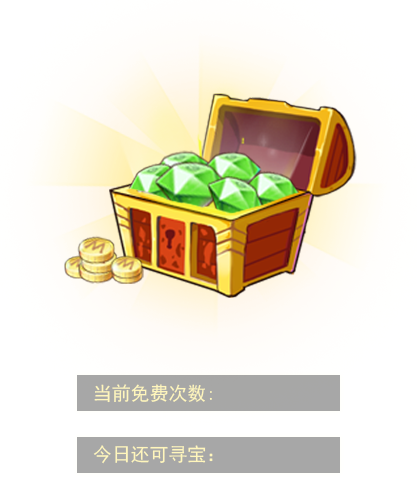
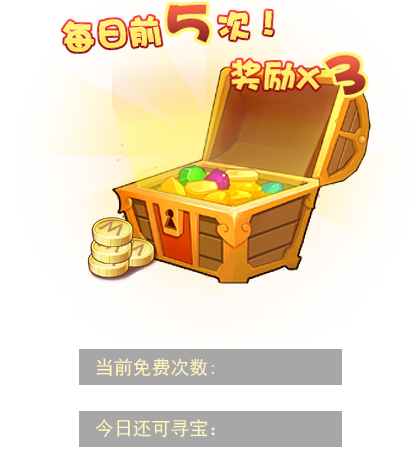
修改寻宝界面

diff --git a/client/cocos2d-x-2.2.1/projects/Magpie/Resources/src/model/gameFit.js b/client/cocos2d-x-2.2.1/projects/Magpie/Resources/src/model/gameFit.js
@@ -1163,12 +1163,12 @@ var fit4Iphone4 = {
             "headLabelPoint": cc.p(360, 850),
             "goldIconPoint": cc.p(570, 850),
             "goldLabelPoint": cc.p(600, 850),
-            "treasureHuntBgPoint": cc.p(360, 500),
-            "treasureHuntItemPoint": cc.p(360, 452),
+            "treasureHuntBgPoint": cc.p(360, 480),
+            "treasureHuntItemPoint": cc.p(360, 422),
             "treasureHuntIcon1Point": cc.p(355, 457),
-            "treasureHuntIcon2Point": cc.p(355, 457),
-            "freeCountLabelPoint": cc.p(420, 342),
-            "countLabelPoint": cc.p(420, 282)
+            "treasureHuntIcon2Point": cc.p(355, 427),
+            "freeCountLabelPoint": cc.p(420, 337),
+            "countLabelPoint": cc.p(420, 277)
         },
         "goPaymentLayer": {
             "bgSpritePoint": cc.p(360, 492),
@@ -2388,12 +2388,12 @@ var fit4Iphone5 = {
             "headLabelPoint": cc.p(320, 1026),
             "goldIconPoint": cc.p(530, 1026),
             "goldLabelPoint": cc.p(560, 1026),
-            "treasureHuntBgPoint": cc.p(320, 588),
-            "treasureHuntItemPoint": cc.p(320, 540),
+            "treasureHuntBgPoint": cc.p(320, 548),
+            "treasureHuntItemPoint": cc.p(320, 490),
             "treasureHuntIcon1Point": cc.p(315, 545),
-            "treasureHuntIcon2Point": cc.p(315, 545),
-            "freeCountLabelPoint": cc.p(380, 430),
-            "countLabelPoint": cc.p(380, 370)
+            "treasureHuntIcon2Point": cc.p(315, 496),
+            "freeCountLabelPoint": cc.p(380, 406),
+            "countLabelPoint": cc.p(380, 346)
         },
         "goPaymentLayer": {
             "bgSpritePoint": cc.p(320, 580),
